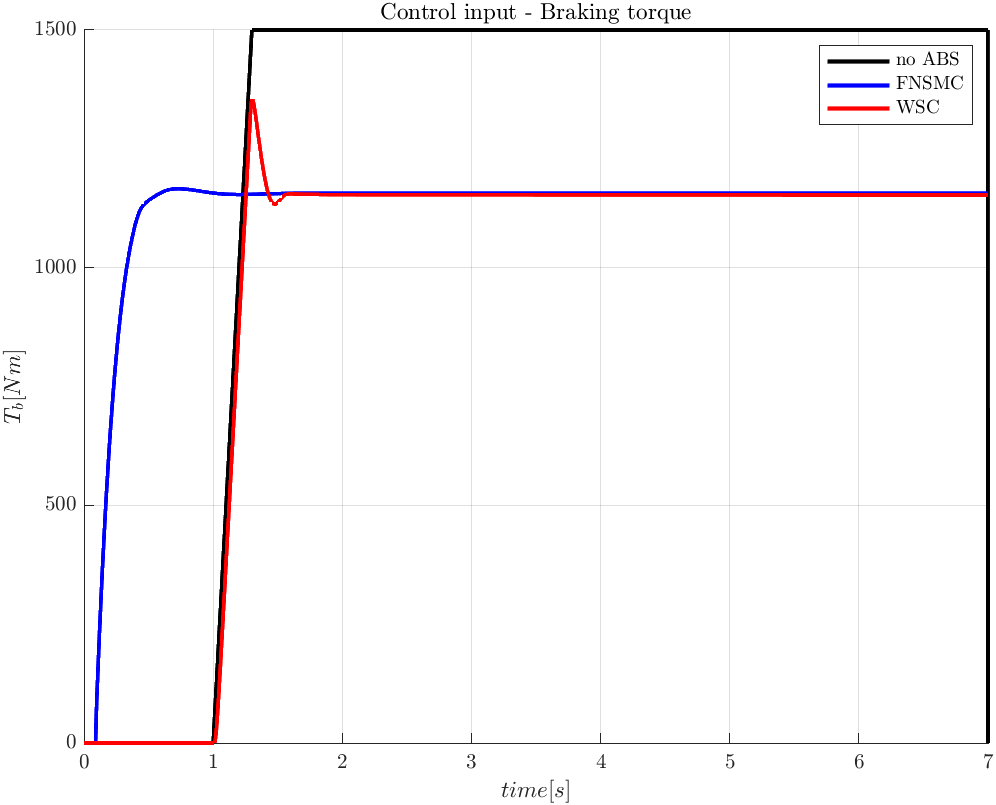
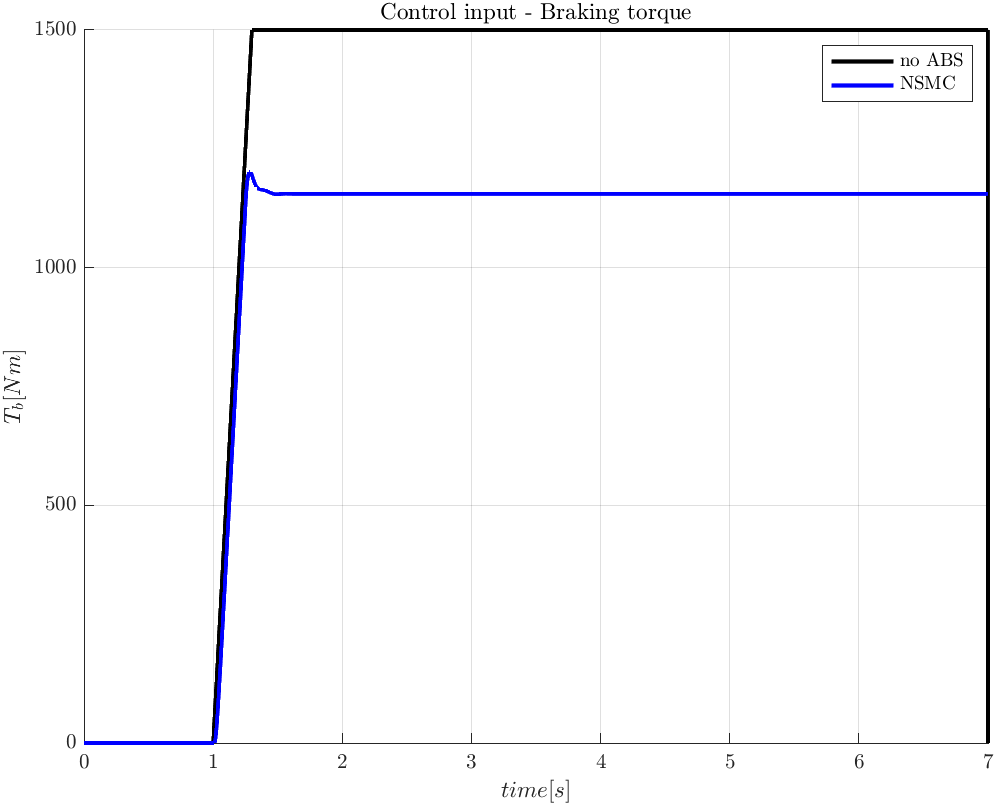
project status - extra (images) , paper 90%

diff --git a/ABS_WSlipC_vs_NN-SMC/mainABS_SMC_FZL_NN.m b/ABS_WSlipC_vs_NN-SMC/mainABS_SMC_FZL_NN.m
@@ -59,7 +59,7 @@ road_condition_names   = { 'Dry Asphalt', ...
                            'Wet Asphalt', ...
                            'Cobblestone', ...
                            'Snow' };
-auxdata.road_condition = 4;
+auxdata.road_condition = 1;
 
 fprintf( 'Road condition: %s.\n', ...h
          road_condition_names{ auxdata.road_condition } );
@@ -345,7 +345,8 @@ hold on;
 grid on;
 axis equal;
 
-xlim( [ 0, max( [x_SMC_ABS(end), x_noABS(end), x_WSC_ABS(end)] ) + v_length ] );
+% xlim( [ 0, max( [x_SMC_ABS(end), x_noABS(end), x_WSC_ABS(end)] ) + v_length ] );
+xlim( [ 0, max( [x_SMC_ABS(end), x_noABS(end)] ) + v_length ] );
 ylim( [ 0, 50 ] );
 
 yL = get( gca, 'YLim' ); % get the maximum y to use later
@@ -375,30 +376,43 @@ end
 % Start plotting the position values
 fprintf('Plot the braking maneuver (vehicle position).\n');
 
-h1 = plot( [ x_SMC_ABS(1),   x_SMC_ABS(1)   ], [ 10, 10 ], '--r', 'LineWidth', 2);
-h2 = plot( [ x_noABS(1), x_noABS(1) ], [ 25, 25 ], '--b', 'LineWidth', 2);
-h3 = plot( [ x_WSC_ABS(1),   x_WSC_ABS(1)   ], [ 40, 40 ], '--g', 'LineWidth', 2);
+h1 = plot( [ x_SMC_ABS(1),   x_SMC_ABS(1)   ], [ 15, 15 ], '--r', 'LineWidth', 2);
+h2 = plot( [ x_noABS(1), x_noABS(1) ], [ 30, 30 ], '--b', 'LineWidth', 2);
+% h1 = plot( [ x_SMC_ABS(1),   x_SMC_ABS(1)   ], [ 10, 10 ], '--r', 'LineWidth', 2);
+% h2 = plot( [ x_noABS(1), x_noABS(1) ], [ 25, 25 ], '--b', 'LineWidth', 2);
+% h3 = plot( [ x_WSC_ABS(1),   x_WSC_ABS(1)   ], [ 40, 40 ], '--g', 'LineWidth', 2);
 
-legend( [ h1, h2, h3 ], { 'with SMC-ABS', 'without ABS',  'with WSC-ABS' } );
+% legend( [ h1, h2, h3 ], { 'with SMC-ABS', 'without ABS',  'with WSC-ABS' } );
+legend( [ h1, h2 ], { 'with NSMC-ABS', 'without ABS' } );
 
 n = floor(tf/dt);
 for i = 2:frame_skip:n
-    plot( [ x_SMC_ABS(1),   x_SMC_ABS(i)   ], [ 10, 10 ], '--r', ...
+    plot( [ x_SMC_ABS(1),   x_SMC_ABS(i)   ], [ 15, 15 ], '--r', ...
           'LineWidth', 2, 'HandleVisibility', 'off' );
-    plot( [ x_noABS(1), x_noABS(i) ], [ 25, 25 ], '--b', ...
+    plot( [ x_noABS(1), x_noABS(i) ], [ 30, 30 ], '--b', ...
           'LineWidth', 2, 'HandleVisibility', 'off' );
-    plot( [ x_WSC_ABS(1),   x_WSC_ABS(i)   ], [ 40, 40 ], '--g', ...
-          'LineWidth', 2, 'HandleVisibility', 'off' );
+    % plot( [ x_SMC_ABS(1),   x_SMC_ABS(i)   ], [ 10, 10 ], '--r', ...
+    %       'LineWidth', 2, 'HandleVisibility', 'off' );
+    % plot( [ x_noABS(1), x_noABS(i) ], [ 25, 25 ], '--b', ...
+    %       'LineWidth', 2, 'HandleVisibility', 'off' );
+    % plot( [ x_WSC_ABS(1),   x_WSC_ABS(i)   ], [ 40, 40 ], '--g', ...
+    %       'LineWidth', 2, 'HandleVisibility', 'off' );
 
     h_SMC_ABS   = rectangle( 'Position', [ x_SMC_ABS(i) - v_length / 2, ...
-                                      10 - width / 2, v_length, width ], ...
+                                      15 - width / 2, v_length, width ], ...
                         'Curvature', [ 0.2, 0.9 ], 'FaceColor', 'red' );
     hnoABS = rectangle( 'Position', [ x_noABS(i) - v_length / 2, ...
-                                      25 - width / 2, v_length, width ], ...
+                                      30 - width / 2, v_length, width ], ...
                         'Curvature', [ 0.2, 0.9 ], 'FaceColor', 'blue' );
-    h_WSC_ABS   = rectangle( 'Position', [ x_WSC_ABS(i) - v_length / 2, ...
-                                      40 - width / 2, v_length, width ], ...
-                        'Curvature', [ 0.2, 0.9 ], 'FaceColor', 'green' );
+    % h_SMC_ABS   = rectangle( 'Position', [ x_SMC_ABS(i) - v_length / 2, ...
+    %                                   10 - width / 2, v_length, width ], ...
+    %                     'Curvature', [ 0.2, 0.9 ], 'FaceColor', 'red' );
+    % hnoABS = rectangle( 'Position', [ x_noABS(i) - v_length / 2, ...
+    %                                   25 - width / 2, v_length, width ], ...
+    %                     'Curvature', [ 0.2, 0.9 ], 'FaceColor', 'blue' );
+    % h_WSC_ABS   = rectangle( 'Position', [ x_WSC_ABS(i) - v_length / 2, ...
+    %                                   40 - width / 2, v_length, width ], ...
+    %                     'Curvature', [ 0.2, 0.9 ], 'FaceColor', 'green' );
 
     progress_bar(2, n, frame_skip, i);
 
@@ -406,18 +420,24 @@ for i = 2:frame_skip:n
 
     set( h_SMC_ABS,  'Visible', 'off' );
     set( hnoABS,'Visible', 'off' );
-    set( h_WSC_ABS,  'Visible', 'off' );
+    % set( h_WSC_ABS,  'Visible', 'off' );
 end
 
 rectangle( 'Position', [ x_SMC_ABS(i) - v_length / 2, ...
-                         10 - width / 2, v_length, width ], ...
+                         15 - width / 2, v_length, width ], ...
            'Curvature', [ 0.2, 0.9 ], 'FaceColor', 'red' );
 rectangle( 'Position', [ x_noABS(i) - v_length / 2, ...
-                         25 - width / 2, v_length, width ], ...
+                         30 - width / 2, v_length, width ], ...
            'Curvature', [ 0.2, 0.9 ], 'FaceColor', 'blue' );
-rectangle( 'Position', [ x_WSC_ABS(i) - v_length / 2, ...
-                         40 - width / 2, v_length, width ], ...
-           'Curvature', [ 0.2, 0.9 ], 'FaceColor', 'green' );
+% rectangle( 'Position', [ x_SMC_ABS(i) - v_length / 2, ...
+%                          10 - width / 2, v_length, width ], ...
+%            'Curvature', [ 0.2, 0.9 ], 'FaceColor', 'red' );
+% rectangle( 'Position', [ x_noABS(i) - v_length / 2, ...
+%                          25 - width / 2, v_length, width ], ...
+%            'Curvature', [ 0.2, 0.9 ], 'FaceColor', 'blue' );
+% rectangle( 'Position', [ x_WSC_ABS(i) - v_length / 2, ...
+%                          40 - width / 2, v_length, width ], ...
+%            'Curvature', [ 0.2, 0.9 ], 'FaceColor', 'green' );
 
 %-------------------------------------------------------------------------------
 %% Plot simulation results - presentation
@@ -431,14 +451,15 @@ grid on;
 
 plot( time, Tb_noABS, '-k', 'LineWidth', 2 );
 plot( time, Tb_SMC_ABS, '-b', 'LineWidth', 2 );
-plot( time, Tb_WSC_ABS, '-r', 'LineWidth', 2 );
+% plot( time, Tb_WSC_ABS, '-r', 'LineWidth', 2 );
 
 xlabel( '$time [s]$' );
 ylabel( '$T_b [Nm]$' );
-legend( 'no ABS', 'FNSMC', 'WSC' )
+% legend( 'no ABS', 'FNSMC', 'WSC' )
+legend( 'no ABS', 'NSMC' )
 title( 'Control input - Braking torque' )
 
-% plot the velocity of the maneuver
+%% plot the velocity of the maneuver
 figure( 'Name', 'Vehicle Velocity', 'NumberTitle', 'off' );
 
 hold on;
@@ -446,9 +467,51 @@ grid on;
 
 plot( time, v_noABS, '-k', 'LineWidth', 2 );
 plot( time, v_SMC_ABS, '-b', 'LineWidth', 2 );
-plot( time, v_WSC_ABS, '-r', 'LineWidth', 2 );
+% plot( time, v_WSC_ABS, '-r', 'LineWidth', 2 );
 
 xlabel( '$time [s]$' );
 ylabel( '$velocity [m/s]$' );
-legend( 'no ABS', 'FNSMC', 'WSC' )
+% legend( 'no ABS', 'FNSMC', 'WSC' )
+legend( 'no ABS', 'NSMC' )
 title( 'Vehicle velocity' )
+
+%% plot the longitudinal wheel slip
+
+lambda_ref = 0.1*ones(length(time),1);
+
+figure( 'Name', 'Longitudinal wheel slip', 'NumberTitle', 'off' );
+
+hold on;
+grid on;
+
+ylim( [ 0, 1 ] );
+
+plot( time, lambda_noABS, '-k', 'LineWidth', 2 );
+plot( time, lambda_SMC_ABS, '-b', 'LineWidth', 2 );
+plot( time, lambda_ref, '--r', 'LineWidth', 1 )
+
+xlabel( '$time [s]$' );
+ylabel( '$\lambda [-]$' );
+% legend( 'no ABS', 'FNSMC', 'WSC' )
+legend( 'no ABS', 'NSMC', '$\lambda_{ref}$' )
+title( 'Wheel slip' )
+
+%% plot the longitudinal wheel slip - NSMC vs. PID-WSC
+
+lambda_ref = 0.1*ones(length(time),1);
+
+figure( 'Name', 'Longitudinal wheel slip', 'NumberTitle', 'off' );
+
+hold on;
+grid on;
+
+ylim( [ 0, 1 ] );
+
+plot( time, lambda_SMC_ABS, '-b', 'LineWidth', 2 );
+plot( time, lambda_WSC_ABS, '-r', 'LineWidth', 2 );
+plot( time, lambda_ref, '--k', 'LineWidth', 1 )
+
+xlabel( '$time [s]$' );
+ylabel( '$\lambda [-]$' );
+legend( 'NSMC', 'PID-WSC', '$\lambda_{ref}$' )
+title( 'Wheel slip' )
